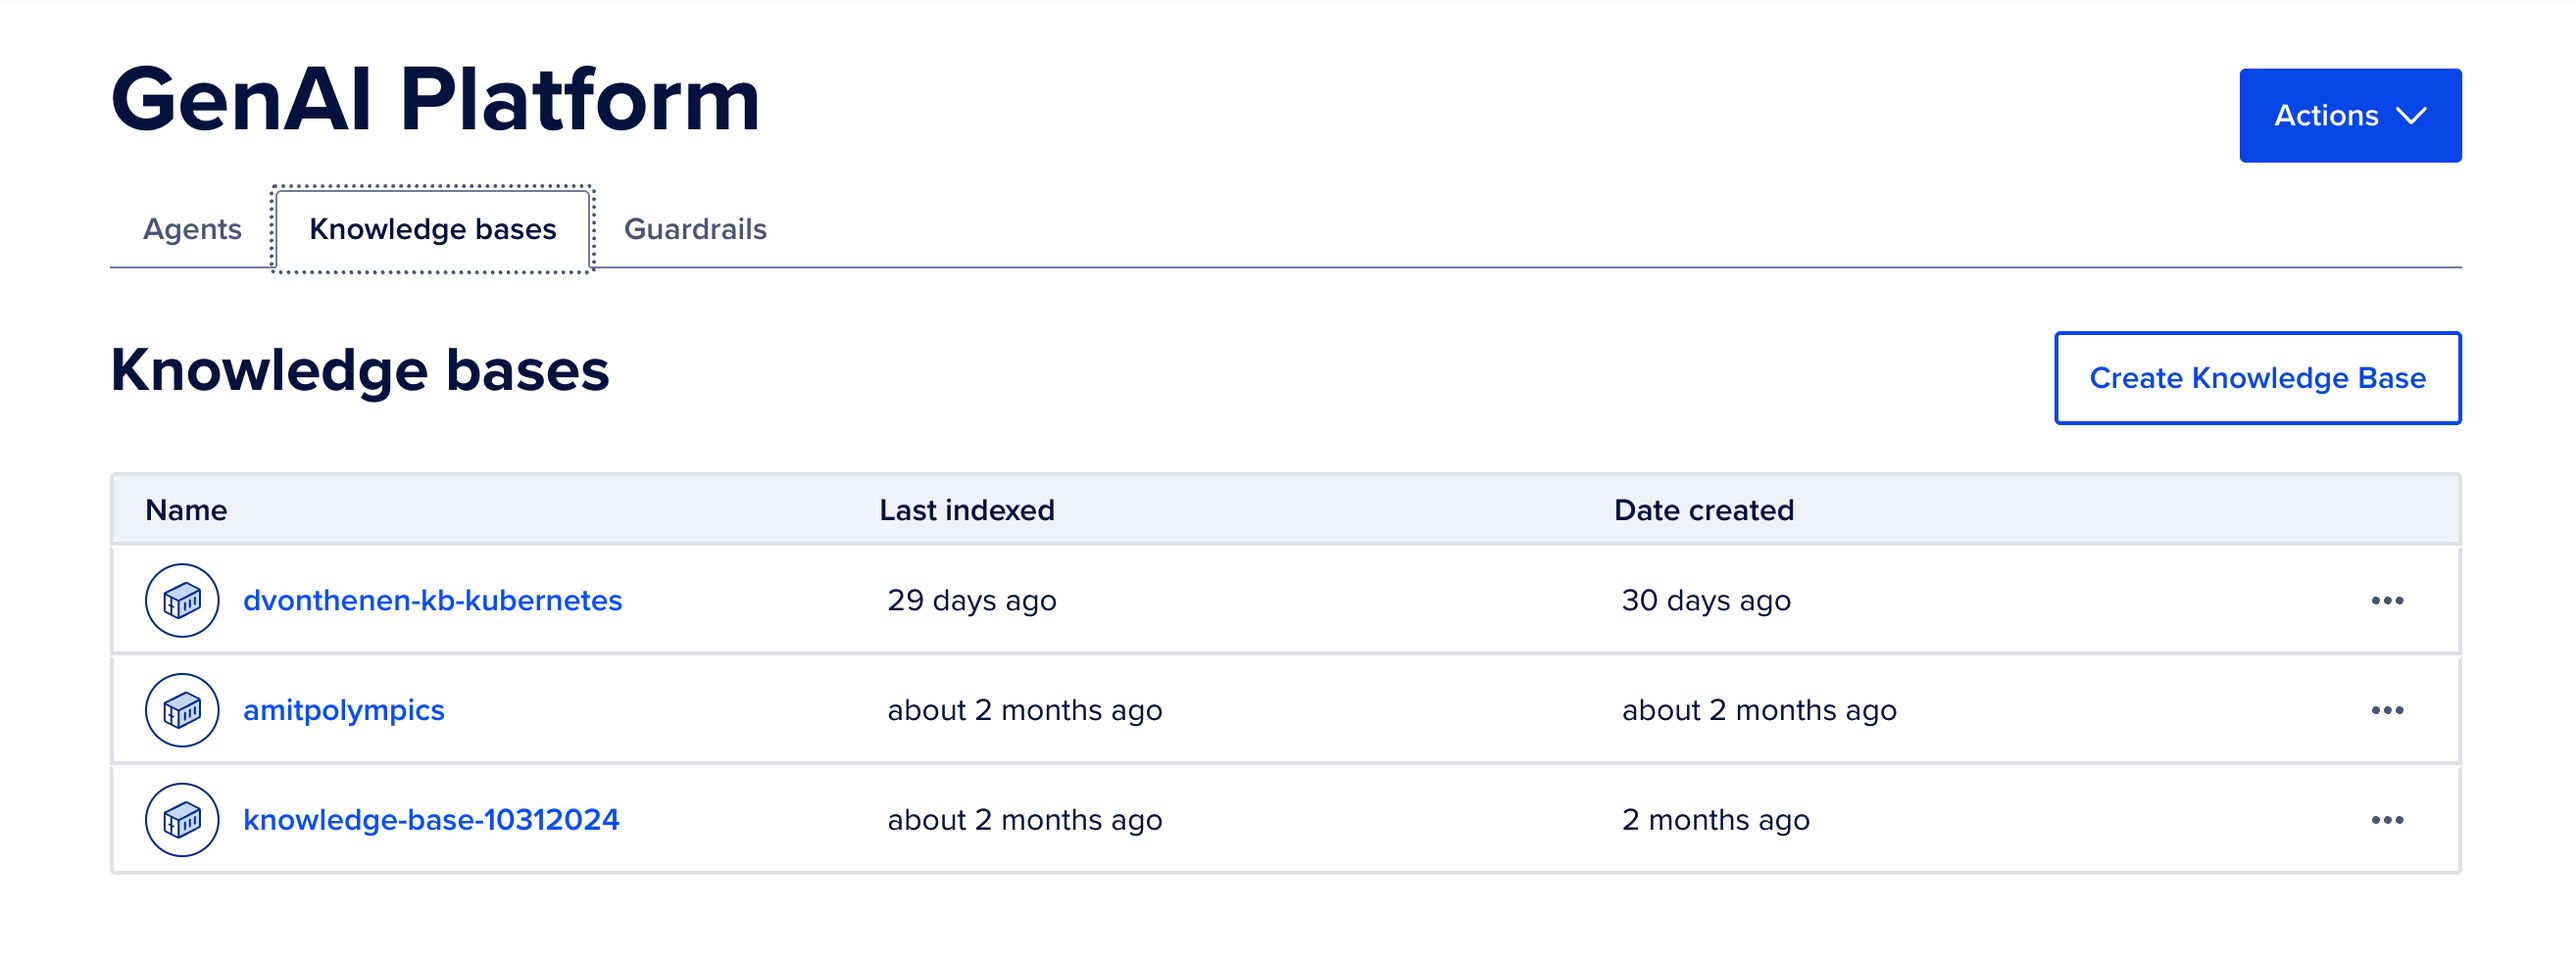
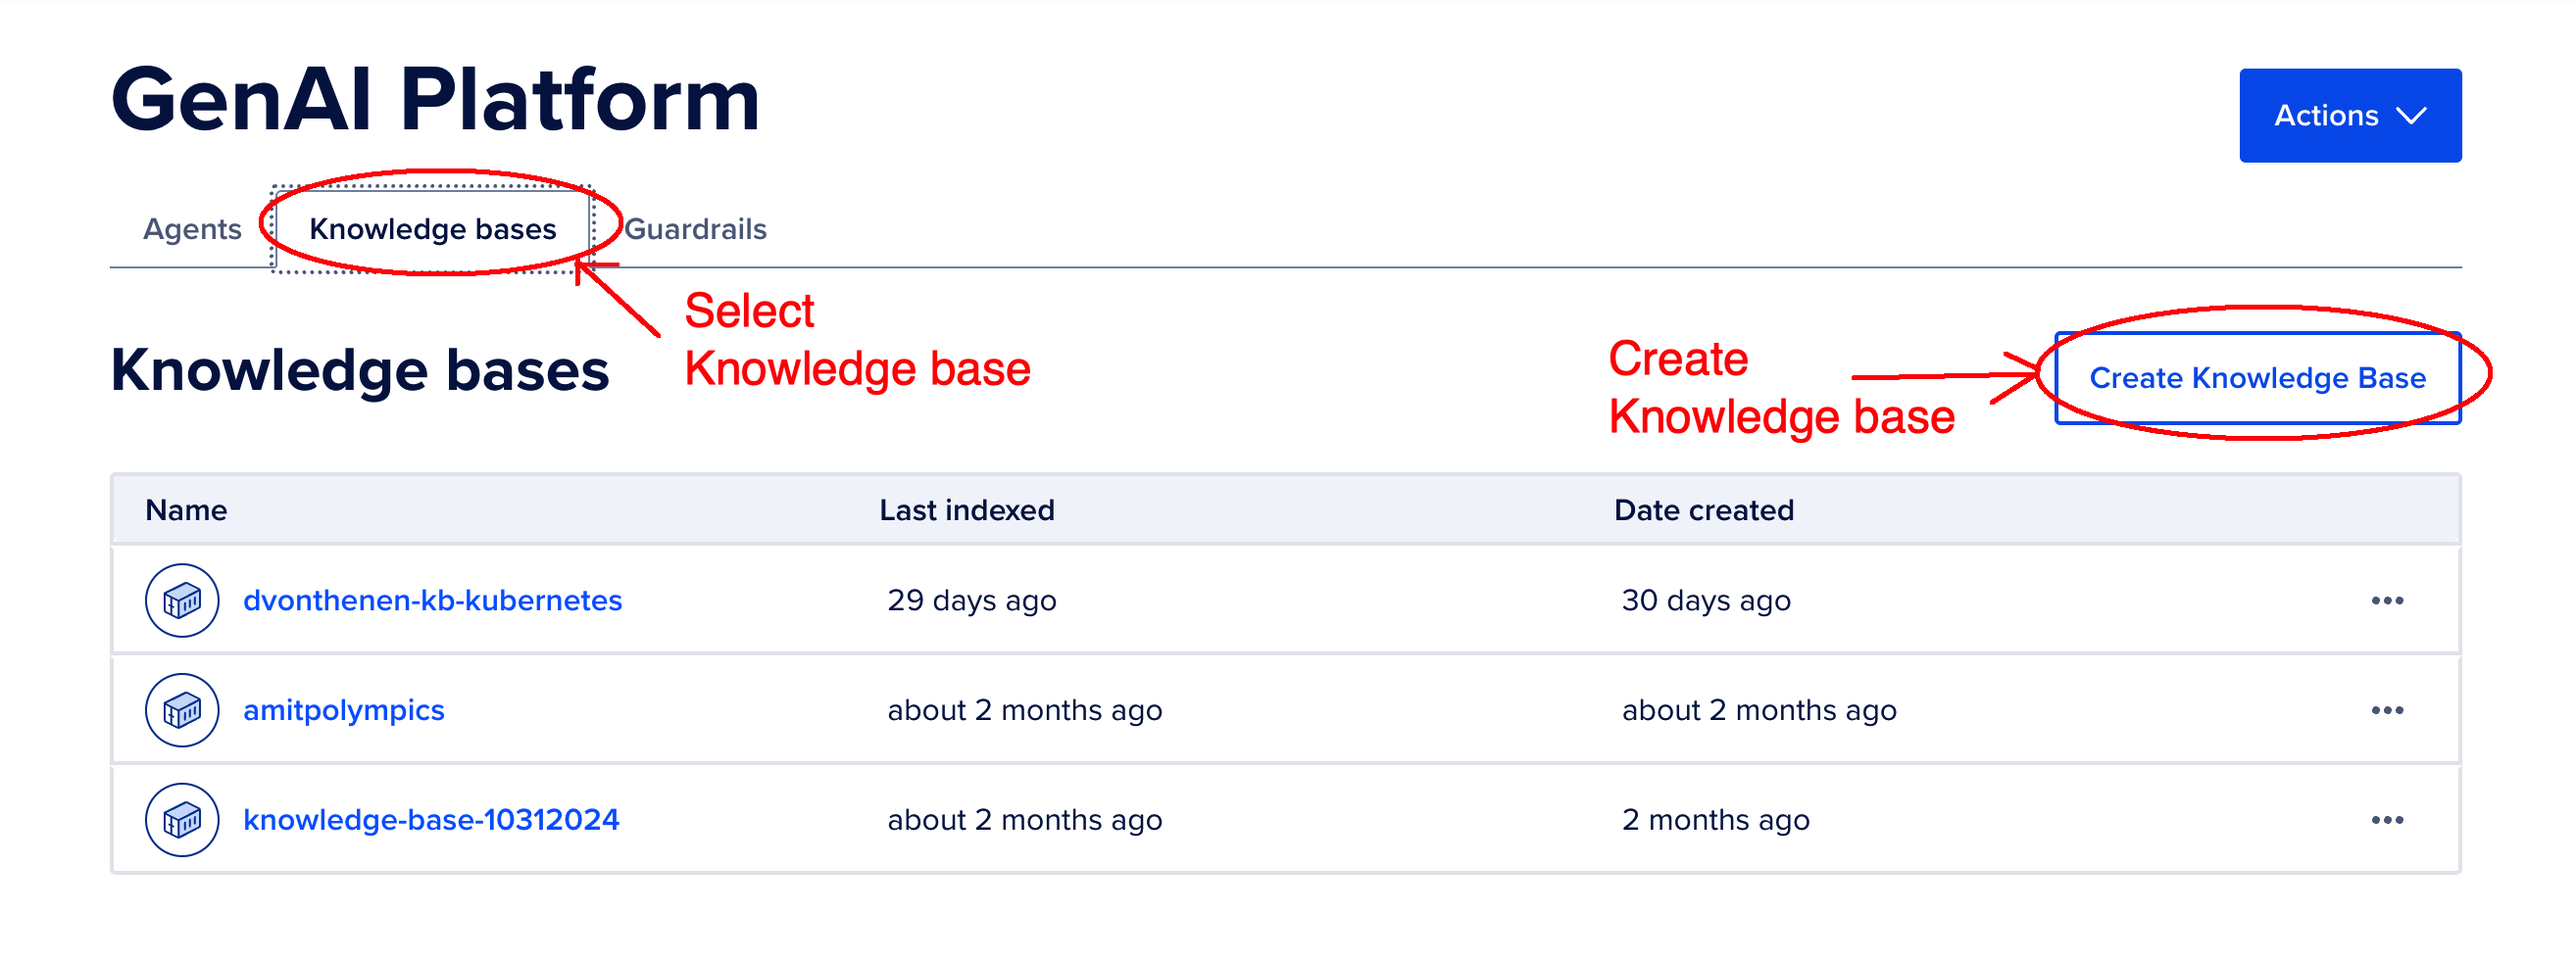
Last Minute Changes...

diff --git a/STEP5_AGENT_API.md b/STEP5_AGENT_API.md
@@ -8,7 +8,7 @@ Before proceeding, ensure you have:
 
 - Python 3.7 or later installed.
 - (Optional, but highly recommended) A virtual environment like [conda](https://docs.anaconda.com/miniconda/install/#quick-command-line-install) or [venv](https://docs.python.org/3/library/venv.html).
-- The `agent.py` script, available in the repository under `./kubernetes-walkthrough/agent.py`.
+- The `agent.py` script, available in the repository under `kubernetes-walkthrough/agent.py`.
 - Installed the required Python libraries: `pyjwt`, `openai`, and `httpx`.
 
   ```bash
@@ -22,8 +22,8 @@ Before proceeding, ensure you have:
 
 ## 5.1: Update agent.py
 
-1. Open the `agent.py` file in a text editor.
-2. Replace the placeholders with your agent’s details:
+1. Open the `agent.py` file in a text editor. This Python file is located in the `kubernetes-walkthrough` directory in this repo.
+2. Replace the placeholders with your agent's details:
 
   - `agent_key`: Replace `<your-agent-endpoint-key>` with your Agent Key.
   - `agent_endpoint`: Replace `<your-agent-endpoint-url>` with your Agent Endpoint URL. Ensure it ends with /api/v1/.
@@ -60,10 +60,6 @@ The API Endpoint that is deployed is OpenAI API compatible. Most LLMs these days
 
 ## Next Steps...
 
-Here is an optional module:
-
-→ [Next Up: Function Calling With Your AI Agent](./STEP6_FUNCTION_CALLING.md)
-
-Or let's wrap up here...
+Let's wrap up here...
 
 → [Next Up: Concluding Remarks](./FINISH.md)

diff --git a/STEP2_KNOWLEDGE_BASE.md b/STEP2_KNOWLEDGE_BASE.md
@@ -22,7 +22,7 @@ For more details on creating a Knowledge Base, refer to the [Knowledge Base Quic
 
    ![Create a Knowledge Base](./images/step2-create-new.png)
 
-2. (Optionally) If you have played around with the GenAI Platform, you may not see the screen above. It may look like this below. In this case, select the **Knowledge base** tab.
+2. (Optionally) If you have played around with the GenAI Platform, you may not see the screen above. It may look like this below. In this case, click the **Knowledge base** tab, then select `Create Knowledge base`.
 
    ![Create a Knowledge Base](./images/step2-create-existing.png)
 

diff --git a/STEP3_GENAI_AGENT.md b/STEP3_GENAI_AGENT.md
@@ -104,7 +104,7 @@ We want to go back and refine some of the settings on our Agent.
 
 3. **Settings**:
 
-   - TODO: Key
+   - Create an `Endpoint Access Key` and save the value of the generated key. This si required when attempting to use the API via code.
 
    ![Agent Settings](./images/step3-agent-settings.png)
 
